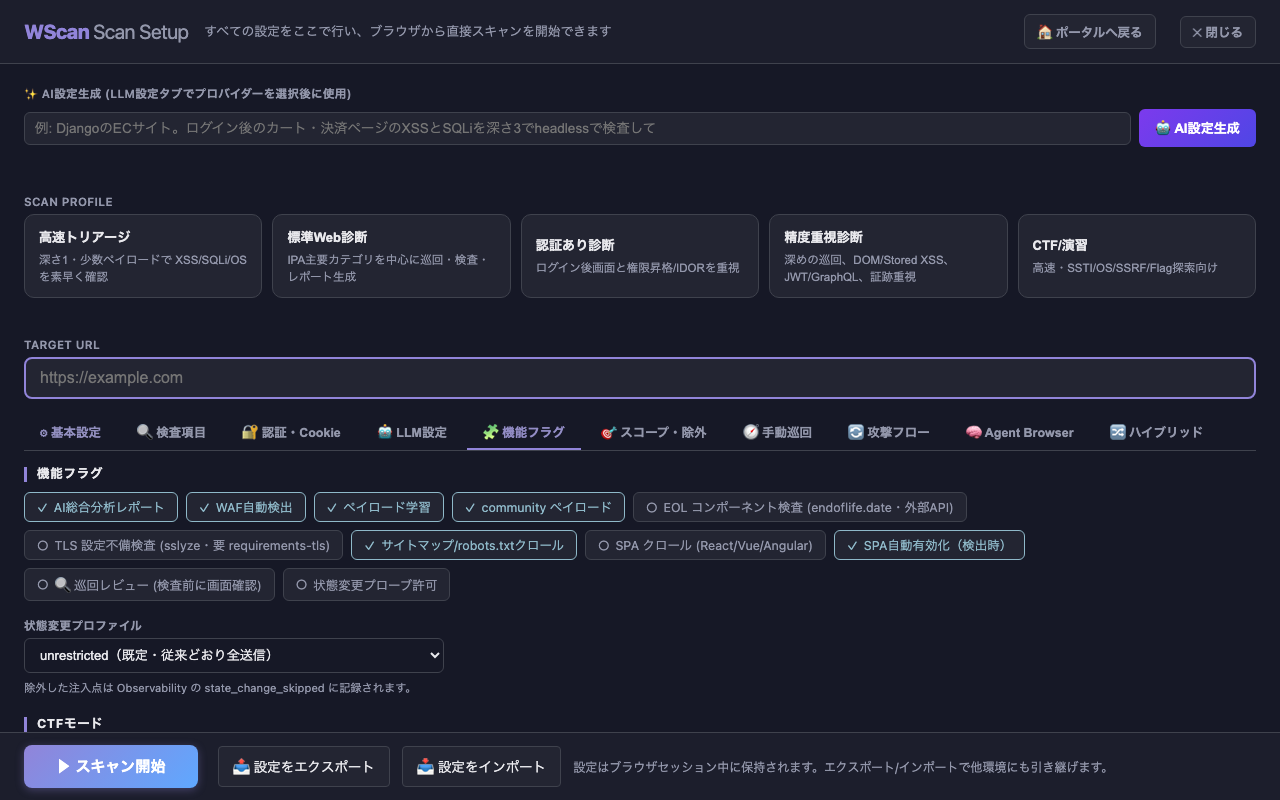
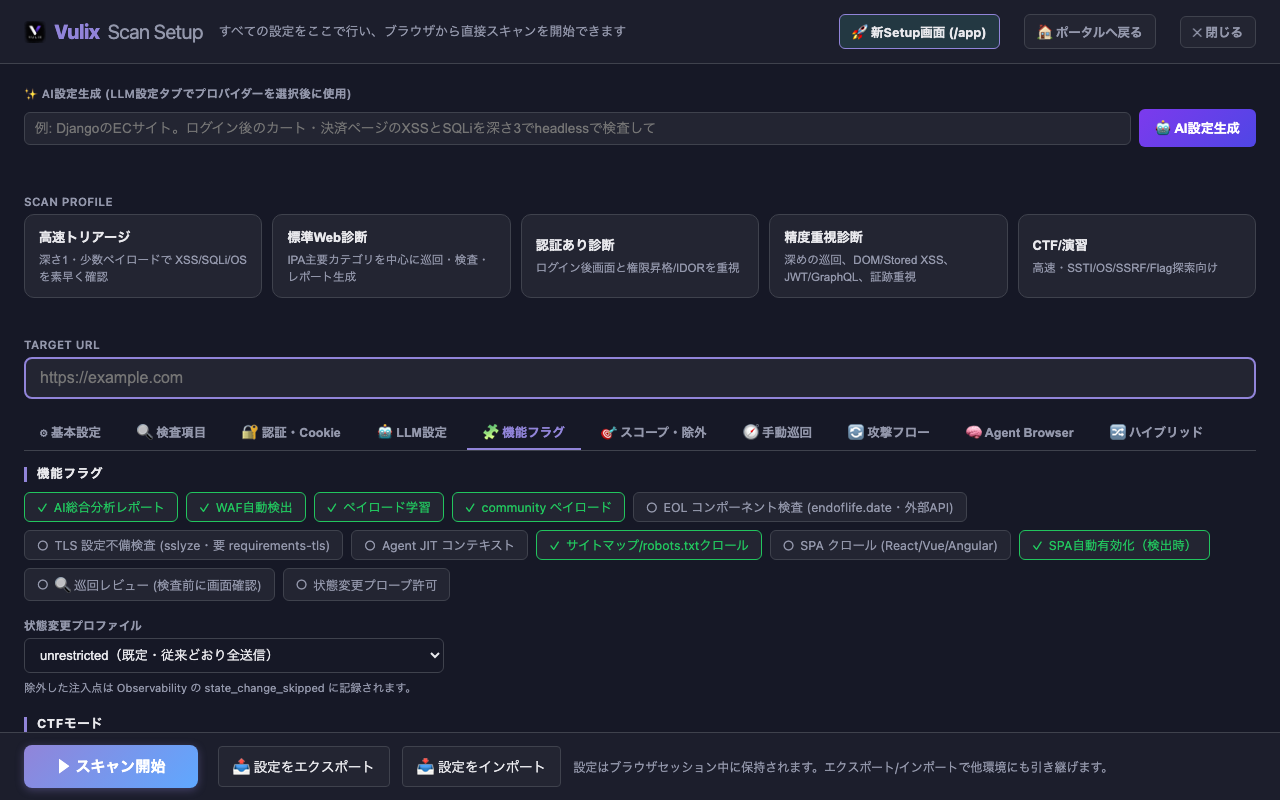
Document the optional agent JIT context setting and refresh the feature flags screenshot

diff --git a/docs/dashboard_usage_ja.md b/docs/dashboard_usage_ja.md
@@ -259,6 +259,14 @@ mTLS では PEM のクライアント証明書/秘密鍵、または Playwright 
 
 Bearer/カスタムヘッダは「認証・Cookie」の設定を引き継ぎます。「Agent Browser スキャン開始」を押すと、LLM がブラウザを観察し、ページ遷移、入力、ペイロード選択、結果判断を自律的に行います。Agent の独自性を残す設計のため、Finding は未確証でもレポートへ残ります。
 
+#### Agent JIT コンテキスト（任意・既定 off）
+
+「機能フラグ」タブの **Agent JIT コンテキスト**（`/app` の Scan Setup では「AI・自律探索」タブ）は、Agent が各ステップで LLM に渡す情報を、直近の高 signal な証拠と構造化ノートだけに絞り、上限付きで供給する機能です。履歴全体を毎回送らないため、Agent の入力トークンを減らす狙いがあります。
+
+- **Agent モードの機能**です。通常モードの決定論スキャナの判定には影響しません。
+- **既定は off**（`features.agent_jit_context: false`）です。CLI の補助入口では `agent --jit-context` で有効にできます。設定の詳細は [README](../README.md) の Agent オプション表を参照してください。
+- **未確認**: 実際の LLM でトークン削減量や発見件数への影響は、まだ計測していません。fixture を使ったリプレイテストで上限と挙動を確認しただけです。効果を確かめるまでは、重要なスキャンでは off のまま使うか、off/on を比較してください。
+
 ### Hybrid
 
 「ハイブリッド」タブでは、偵察用 provider、モデル、最大ステップ数（既定 `30`）、Ollama URL を設定します。ログイン情報、TOTP シークレット、保存済みストレージ状態（storage_state）、Bearer/カスタムヘッダとチェック種別は「認証・Cookie」「検査項目」の設定を引き継ぎます。
